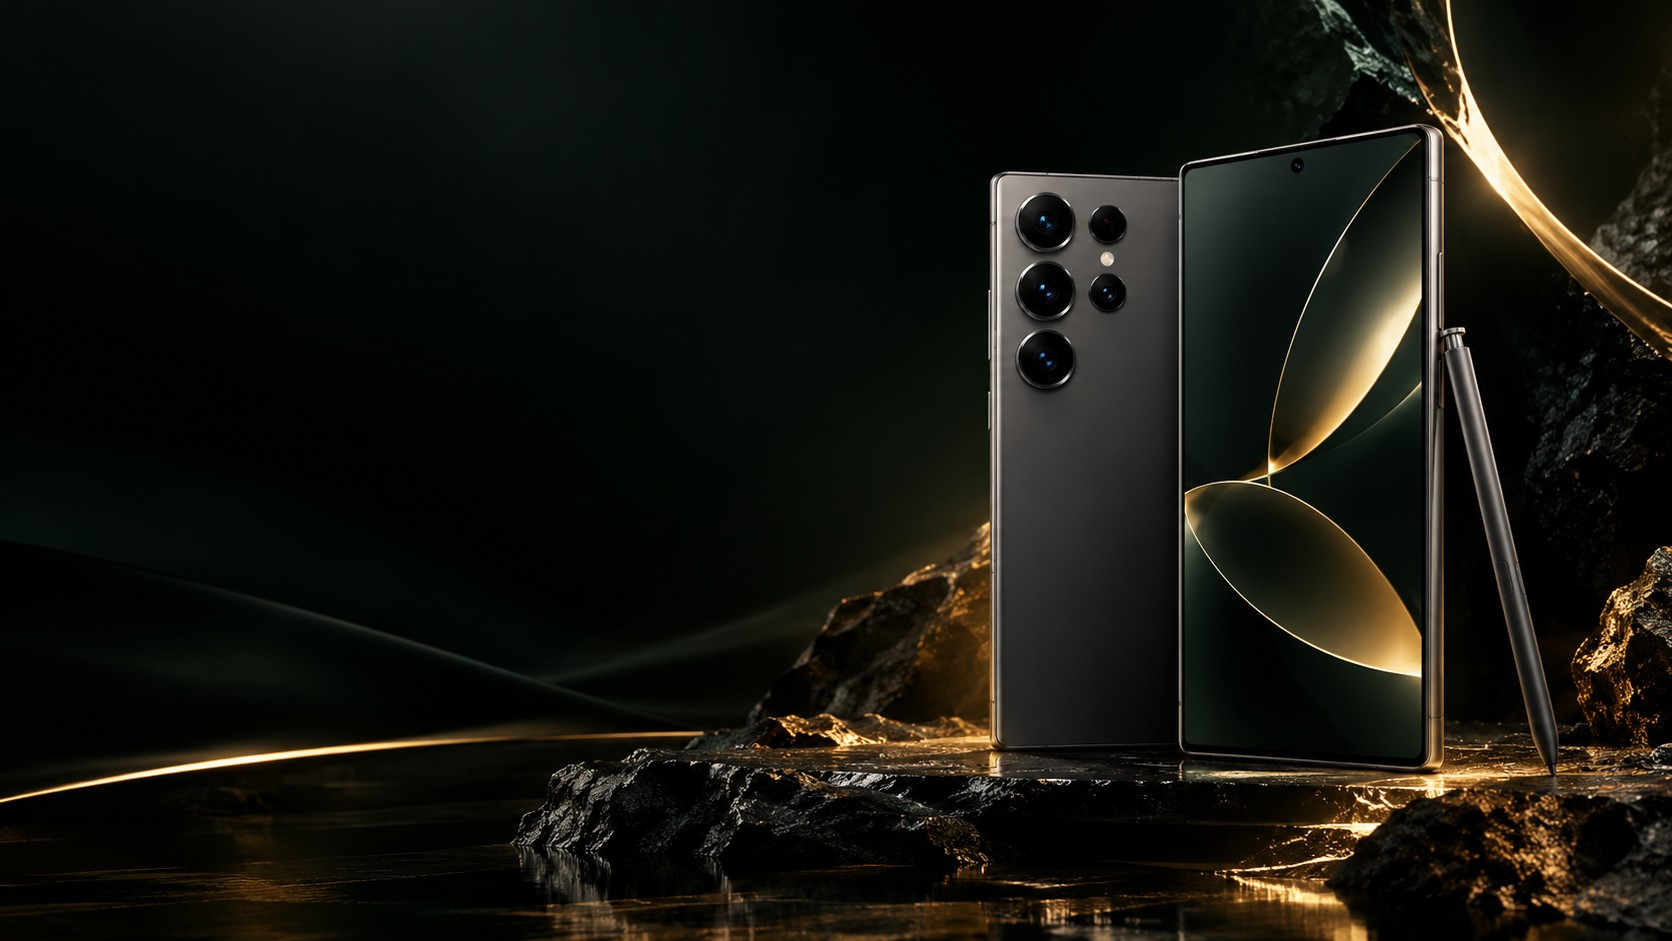
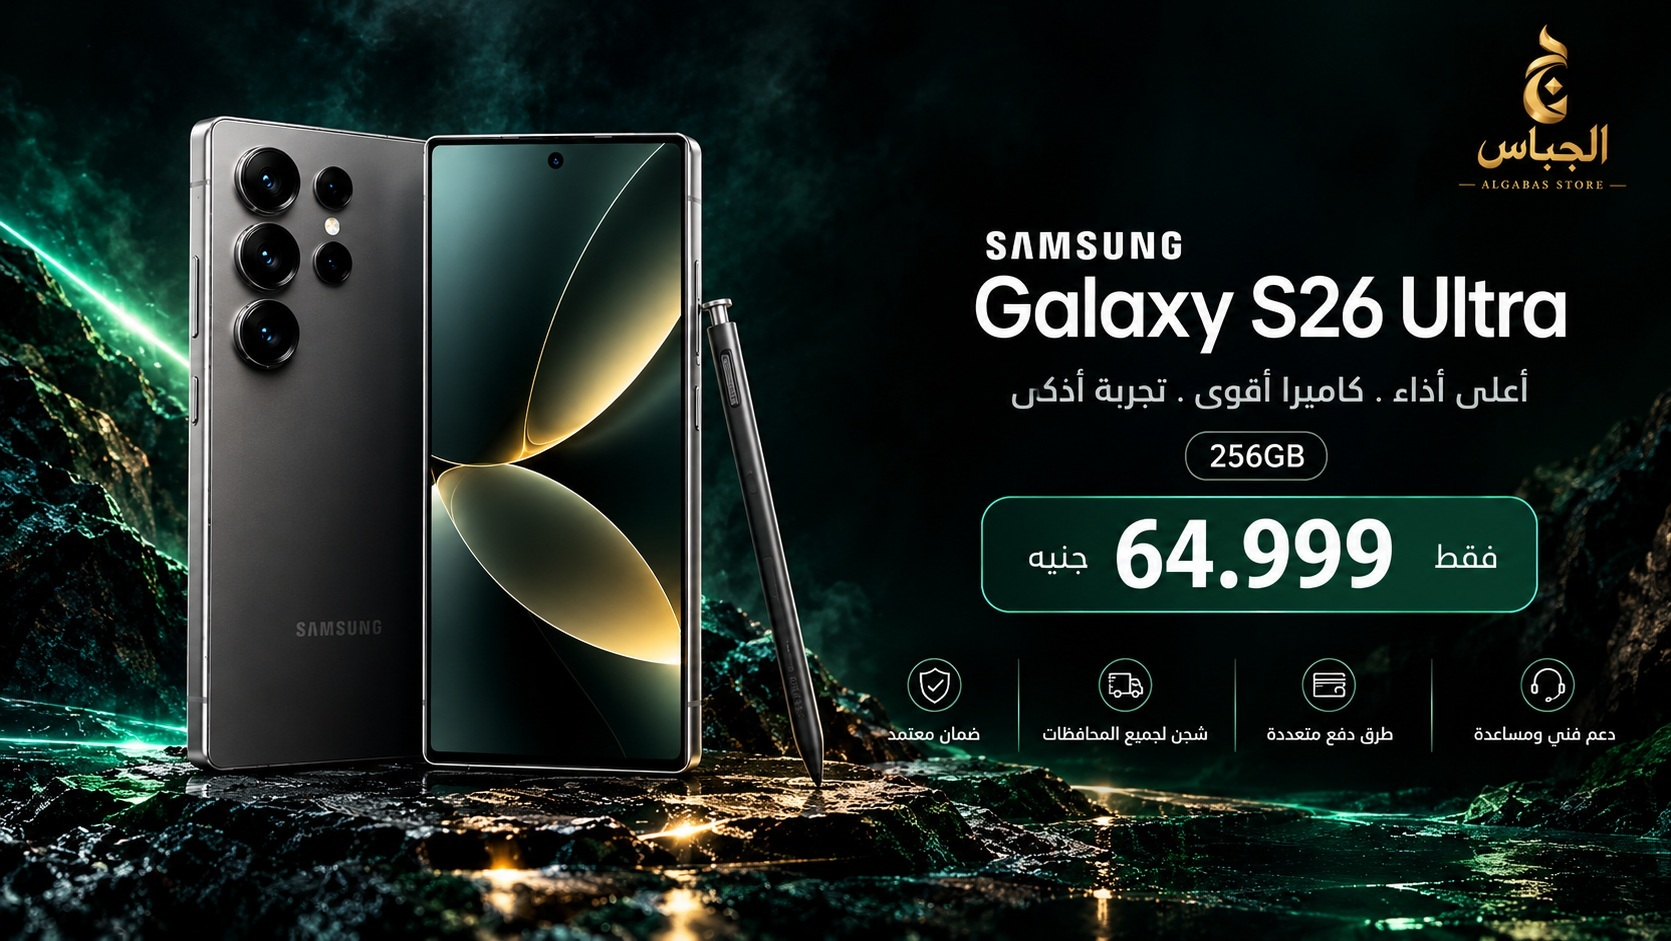
Add files via upload

diff --git a/app.js b/app.js
@@ -12,10 +12,41 @@ function discountInfo(p){const old=Number(p.old_price),now=Number(p.price);if(!(
 function productSpecs(p){const raw=String(p.specs||p.description||"");const m=raw.match(/\[\[BATTERY:(\d{1,3})\]\]/i);return {battery:m?m[1]:"",text:raw.replace(/\s*\[\[BATTERY:\d{1,3}\]\]\s*/ig," ").trim()};}
 function wa(text){return `https://wa.me/${SHOP_PHONE}?text=${encodeURIComponent(text)}`;}
 document.querySelectorAll("[data-whatsapp]").forEach(a=>{a.href=wa("السلام عليكم، عايز أستفسر عن منتجات الجباس استور.");a.target="_blank";a.rel="noopener noreferrer";});
-const hero=document.querySelector('.hero-slider');let heroSlide=0;
-const heroData=[{image:'home-hero.jpg',name:'iPhone 18 Pro Max',message:'السلام عليكم، عايز أستفسر عن جهاز iPhone 18 Pro Max الموجود في إعلان الجباس استور.'},{image:'home-hero-s26.jpg',name:'Samsung Galaxy S26 Ultra',message:'السلام عليكم، عايز أستفسر عن جهاز Samsung Galaxy S26 Ultra الموجود في إعلان الجباس استور.'}];
-function setHeroSlide(n){heroSlide=(n+heroData.length)%heroData.length;const d=heroData[heroSlide];hero.style.backgroundImage=`url('${d.image}')`;const buy=document.querySelector('#hero-buy');buy.href=wa(d.message);buy.target='_blank';buy.rel='noopener noreferrer';document.querySelectorAll('.hero-dots button').forEach((b,i)=>b.classList.toggle('active',i===heroSlide));}
-setHeroSlide(0);document.querySelector('.hero-prev').addEventListener('click',()=>setHeroSlide(heroSlide-1));document.querySelector('.hero-next').addEventListener('click',()=>setHeroSlide(heroSlide+1));document.querySelectorAll('.hero-dots button').forEach(b=>b.addEventListener('click',()=>setHeroSlide(Number(b.dataset.slide))));
+const hero=document.querySelector('.hero-slider');let heroSlide=0,heroTimer=null;
+const heroData=[
+ {image:'home-hero.jpg',name:'iPhone 18 Pro Max',message:'السلام عليكم، عايز أستفسر عن جهاز iPhone 18 Pro Max الموجود في إعلان الجباس استور.'},
+ {image:'home-hero-s26.jpg',name:'Samsung Galaxy S26 Ultra',message:'السلام عليكم، عايز أستفسر عن جهاز Samsung Galaxy S26 Ultra الموجود في إعلان الجباس استور.'},
+ {image:'home-hero-bundle.jpg',name:'الباقة المميزة',message:'السلام عليكم، عايز أستفسر عن الباقة المميزة التي تضم iPhone 18 Pro Max وSamsung Galaxy S26 Ultra. ما تفاصيل العرض والخصم المتاح عند الشراء معًا؟'}
+];
+function setHeroSlide(n){
+ heroSlide=(n+heroData.length)%heroData.length;
+ const d=heroData[heroSlide];
+ hero.style.backgroundImage=`url('${d.image}')`;
+ hero.setAttribute('aria-label',`إعلان ${d.name} — اضغط للاستفسار عبر واتساب`);
+ const buy=document.querySelector('#hero-buy');
+ buy.href=wa(d.message);buy.target='_blank';buy.rel='noopener noreferrer';
+ buy.setAttribute('aria-label',`استفسر عن ${d.name} على واتساب`);
+ document.querySelectorAll('.hero-dots button').forEach((b,i)=>b.classList.toggle('active',i===heroSlide));
+}
+function resetHeroTimer(){
+ if(heroTimer) clearInterval(heroTimer);
+ heroTimer=setInterval(()=>{if(!document.hidden)setHeroSlide(heroSlide+1);},5000);
+}
+setHeroSlide(0);resetHeroTimer();
+document.querySelector('.hero-prev').addEventListener('click',()=>{setHeroSlide(heroSlide-1);resetHeroTimer();});
+document.querySelector('.hero-next').addEventListener('click',()=>{setHeroSlide(heroSlide+1);resetHeroTimer();});
+document.querySelectorAll('.hero-dots button').forEach(b=>b.addEventListener('click',()=>{setHeroSlide(Number(b.dataset.slide));resetHeroTimer();}));
+hero.addEventListener('click',e=>{
+ if(e.target.closest('.hero-arrow,.hero-dots,.hero-hotspot'))return;
+ window.open(wa(heroData[heroSlide].message),'_blank','noopener');
+});
+let heroTouchX=null;
+hero.addEventListener('touchstart',e=>{heroTouchX=e.changedTouches[0].clientX;},{passive:true});
+hero.addEventListener('touchend',e=>{
+ if(heroTouchX===null)return;
+ const dx=e.changedTouches[0].clientX-heroTouchX;heroTouchX=null;
+ if(Math.abs(dx)>45){setHeroSlide(heroSlide+(dx<0?1:-1));resetHeroTimer();}
+},{passive:true});
 
 function categoryMatch(p){
  const hay=[p.name,p.category,p.description,p.specs,p.condition,p.brand,p.model].filter(Boolean).join(" ").toLocaleLowerCase("ar");

diff --git a/style.css b/style.css
@@ -124,10 +124,15 @@ footer .brand-logo{width:70px!important;height:105px!important;object-fit:contai
 body.product-open{overflow:hidden;}
 @media(max-width:700px){.product-page:not([hidden]){padding-inline:10px}.product-page:not([hidden]) .product-page-inner{gap:16px;padding:12px;margin-top:8px}.product-page:not([hidden]) .product-page-image,.product-page:not([hidden]) .product-page-image img{min-height:260px;height:280px}}
 
-/* Functional two-slide hero banner */
-.hero.hero-slider{position:relative;background-size:100% 100%!important;background-position:center!important;overflow:hidden}
+/* Functional three-slide hero banner; preserves the existing store theme */
+.hero.hero-slider{position:relative;display:block;min-height:0;aspect-ratio:1536/620;background-color:#07090d;background-size:100% 100%!important;background-position:center!important;background-repeat:no-repeat;overflow:hidden;cursor:pointer}
+.hero.hero-slider .hero-copy,.hero.hero-slider .hero-visual{display:none!important}
 .hero-arrow{position:absolute;top:50%;transform:translateY(-50%);z-index:4;width:42px;height:42px;border:1px solid #ffffff75;border-radius:50%;background:#0716299c;color:#fff;font-size:32px;line-height:1;cursor:pointer;display:grid;place-items:center}
-.hero-prev{left:12px}.hero-next{right:12px}.hero-hotspot{position:absolute;z-index:3;left:52%;top:62%;width:25%;height:19%;border-radius:10px;display:flex;align-items:center;justify-content:center;color:#fff;background:#b3193cdd;text-decoration:none;font-weight:800;font-size:clamp(11px,1.6vw,18px);box-shadow:0 3px 12px #0005}
-.hero-dots{position:absolute;z-index:4;bottom:8px;left:50%;transform:translateX(-50%);display:flex;gap:7px}.hero-dots button{width:7px;height:7px;padding:0;border:0;border-radius:50%;background:#ffffff90}.hero-dots button.active{background:#fff;width:19px;border-radius:8px}
+.hero-prev{left:12px}.hero-next{right:12px}
+.hero-hotspot{position:absolute;z-index:5;left:52%;top:76%;width:25%;min-height:11%;border-radius:28px;display:flex;align-items:center;justify-content:center;color:#fff;background:#b3193cdd;text-decoration:none;font-weight:800;font-size:clamp(11px,1.6vw,18px);box-shadow:0 3px 12px #0005;cursor:pointer}
+.hero-hotspot:hover{filter:brightness(1.08)}
+.hero-dots{position:absolute;z-index:4;bottom:8px;left:50%;transform:translateX(-50%);display:flex;gap:7px}
+.hero-dots button{width:7px;height:7px;padding:0;border:0;border-radius:50%;background:#ffffff90;cursor:pointer}
+.hero-dots button.active{background:#fff;width:19px;border-radius:8px}
 .maintenance-notice{margin:20px auto;padding:26px 18px;max-width:700px;text-align:center;border:1px solid #e4e7ec;border-radius:16px;background:#fff;line-height:1.9}.maintenance-notice strong{font-size:20px}.maintenance-notice p{color:#626b77;margin-bottom:0}
-@media(max-width:700px){.hero.hero-slider{background-size:100% 100%!important}.hero-arrow{width:32px;height:32px;font-size:25px}.hero-prev{left:6px}.hero-next{right:6px}.hero-hotspot{left:52%;top:62%;width:26%;height:20%}}
+@media(max-width:700px){.hero.hero-slider{aspect-ratio:1536/620;background-size:100% 100%!important}.hero-arrow{width:32px;height:32px;font-size:25px}.hero-prev{left:6px}.hero-next{right:6px}.hero-hotspot{left:52%;top:76%;width:29%;min-height:12%;font-size:11px;padding:5px 3px}.hero-dots{bottom:5px}}

diff --git a/index.html b/index.html
@@ -18,7 +18,7 @@
 </header>
 <main>
 <section class="hero hero-slider" id="home" aria-label="عروض الجباس استور">
-<button class="hero-arrow hero-prev" type="button" aria-label="الإعلان السابق">‹</button><a class="hero-hotspot" id="hero-buy" href="#" aria-label="استفسر عن الجهاز على واتساب">اشتري الآن 🛒</a><button class="hero-arrow hero-next" type="button" aria-label="الإعلان التالي">›</button><div class="hero-dots"><button type="button" data-slide="0" aria-label="إعلان الآيفون"></button><button type="button" data-slide="1" aria-label="إعلان سامسونج"></button></div>
+<button class="hero-arrow hero-prev" type="button" aria-label="الإعلان السابق">‹</button><a class="hero-hotspot" id="hero-buy" href="#" aria-label="استفسر عن الجهاز أو الباقة على واتساب">اشتري الآن</a><button class="hero-arrow hero-next" type="button" aria-label="الإعلان التالي">›</button><div class="hero-dots"><button type="button" data-slide="0" aria-label="إعلان الآيفون"></button><button type="button" data-slide="1" aria-label="إعلان سامسونج"></button><button type="button" data-slide="2" aria-label="إعلان الباقة المميزة"></button></div>
 <div class="hero-copy"><span class="eyebrow">عرض مميز من الجباس استور</span><h1>iPhone 18 Pro Max<br><em>اللون البرجاندي</em></h1><p>اختار موبايلك من الجباس استور — أجهزة وإكسسوارات وعروض حسب المتاح.</p><div class="offer-price">99,999 <small>جنيه</small></div><div class="hero-actions"><a class="btn primary" href="#products">تسوّق الآن ←</a><a class="btn outline" href="#" data-whatsapp>اسألنا على واتساب</a></div></div>
 <div class="hero-visual reference-hero"><div class="hero-caption"><small>ALGABAS STORE</small><strong>اختيارك الأفضل دايمًا</strong></div></div>
 </section>
